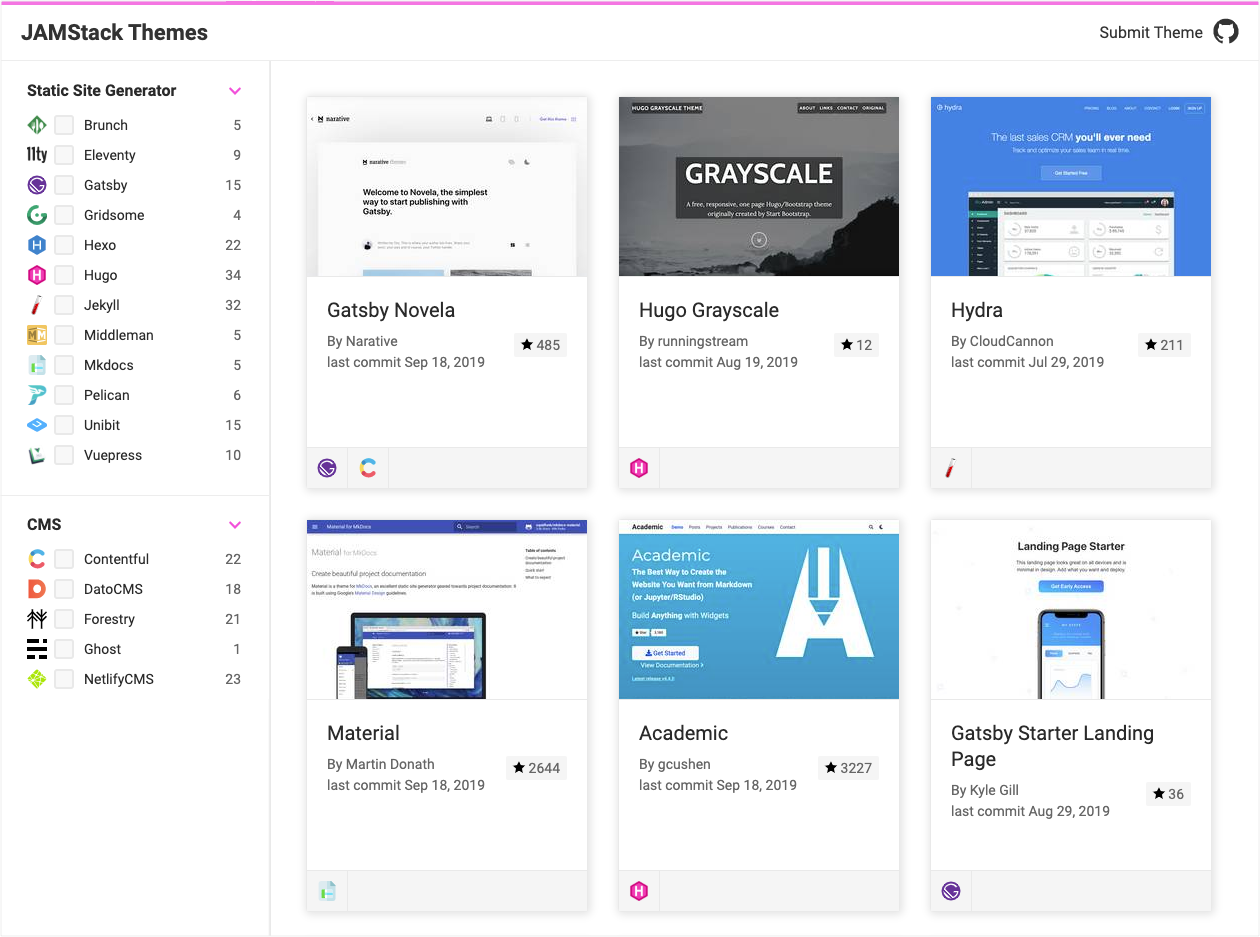
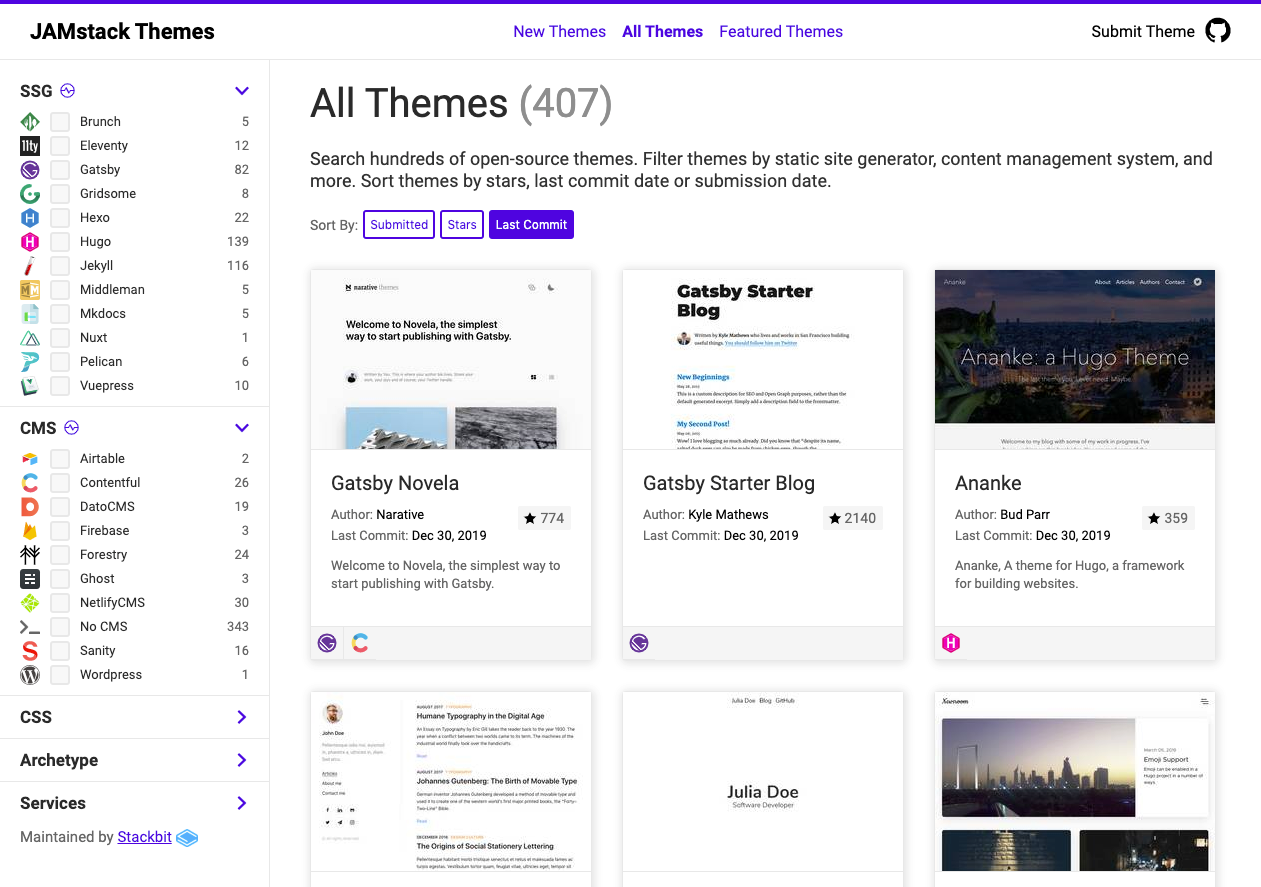
updating seo related stuff

diff --git a/themes/jamstackthemes/layouts/index.html b/themes/jamstackthemes/layouts/index.html
@@ -1,17 +1,13 @@
-{{ define "title" }}JAMstack Themes{{ end}}
+{{ define "title" }}JAMstack Themes{{ end }}
 {{ define "header_css" }}{{ end }}
 {{ define "body_classes" }}page-home{{ end }}
 
 {{ define "meta_tags" }}
-<meta name="description" content="{{ .Site.Params.description }}" />
-<meta property="og:title" content="JAMstack Themes" />
-<meta property="og:type" content="website" />
-<meta property="og:url" content="https://www.jamstackthemes.dev" />
-<meta property="og:description" content="{{ .Site.Params.description }}" />
-<meta property="og:image" content="https://jamstackthemes.dev/images/jamstackthemes-screenshot.png">
-<meta name="twitter:card" content="summary" />
-<meta name="twitter:site" content="@stackbithq" />
-<meta name="twitter:creator" content="@stackbithq" />
+{{ $themes := (where .Site.RegularPages "Type" "theme") }}
+{{ $themes := (where $themes ".Params.draft" "!=" true) }}
+{{ $themeCount := len $themes}}
+<meta name="description" content="The most popular list of themes and starters for JAMstack sites. Over {{ $themeCount }} free static site generator themes for Hugo, Gatsby, Jekyll, Gridsome & more." />
+<link rel="canonical" href="https://jamstackthemes.dev" />
 {{ end }}
 
 {{ define "main" }}
@@ -23,12 +19,11 @@
  
   <div class="intro">
     <h1>New Themes</h1>
-    <!-- <span class="count">(<span class="count-number">{{ $themeCount }}</span>)</span> -->
   </div>
 
   <div>
-    <div class="blurb blurb-desktop"><p>A list of Themes and Starters for <a href="https://jamstack.org/" target="_blank" rel="noopener">JAMstack</a> sites. The largest gallery of up-to-date themes for static site generators.</p></div>
-    <div class="blurb blurb-mobile"><p>A list of Themes and Starters for <a href="https://jamstack.org/" target="_blank" rel="noopener">JAMstack</a> sites.</p></div>
+    <div class="blurb blurb-desktop"><p>A list of themes and starters for <a href="https://jamstack.org/" target="_blank" rel="noopener">JAMstack</a> sites. We're the largest gallery of user submitted, open source themes for static site generators 🦖. This site is maintained with <a href="https://github.com/stackbithq/jamstackthemes#contribution-guidelines">community contributions</a> and with the kind support of <a href="https://www.stackbit.com">stackbit.com.</a></p></div>
+    <div class="blurb blurb-mobile"><p>A list of themes and starters for <a href="https://jamstack.org/" target="_blank" rel="noopener">JAMstack</a> sites.</p></div>
   </div>
 
   <div id="grids-homepage" class="grids">

diff --git a/themes/jamstackthemes/layouts/themes/list.html b/themes/jamstackthemes/layouts/themes/list.html
@@ -1,17 +1,14 @@
-{{ define "title" }}JAMstack Themes{{ end}}
+{{ define "title" }}
+  {{ $themes := (where .Site.RegularPages "Type" "theme") }}
+  {{ $themes := (where $themes ".Params.draft" "!=" true) }}
+  {{ $themeCount := len $themes}}
+All Themes ({{ $themeCount }})
+{{ end }}
+
 {{ define "header_css" }}{{ end }}
 {{ define "body_classes" }}page-home{{ end }}
 
 {{ define "meta_tags" }}
-<meta name="description" content="{{ .Site.Params.description }}" />
-<meta property="og:title" content="JAMstack Themes" />
-<meta property="og:type" content="website" />
-<meta property="og:url" content="https://www.jamstackthemes.dev" />
-<meta property="og:description" content="{{ .Site.Params.description }}" />
-<meta property="og:image" content="https://jamstackthemes.dev/images/jamstackthemes-screenshot.png">
-<meta name="twitter:card" content="summary" />
-<meta name="twitter:site" content="@stackbithq" />
-<meta name="twitter:creator" content="@stackbithq" />
 {{ end }}
 
 {{ define "main" }}
@@ -20,9 +17,6 @@
 {{ $themeCount := len $themes}}
 
 <div class="sidebar">
-  <!-- <div class="blurb blurb-desktop">
-    <p>A list of Themes and Starters for <a href="https://jamstack.org/" target="_blank" rel="noopener">JAMstack</a> sites.</p>
-  </div> -->
   {{ partial "filters.html" . }}
   {{ partial "stackbit.html" . }}
 </div>
@@ -35,9 +29,12 @@
 
   <div>
     <div class="blurb blurb-desktop">
-      <p>Search hundreds of open-source themes. Filter themes by static site generator, content management system, and more. Sort themes by stars, last commit date or submission date.</p>
+      <p>Search hundreds of open-source JAMstack themes and find the perfect starter theme or boilerplate for your next project. Filter themes by static site generator, headless CMS and more. Sort themes by stars, last commit date or submission date.</p>
     </div>
-    <div class="blurb blurb-mobile"><p>A list of Themes and Starters for <a href="https://jamstack.org/" target="_blank" rel="noopener">JAMstack</a> sites.</p></div>
+    <div class="blurb blurb-mobile">
+      <p>Search hundreds of open-source JAMstack themes!</p>
+    </div>  
+      
   </div>
 
   {{ partial "sort-buttons.html" . }}

diff --git a/themes/jamstackthemes/layouts/featured/list.html b/themes/jamstackthemes/layouts/featured/list.html
@@ -1,3 +1,4 @@
+{{ define "title" }}Featured Themes{{ end }}
 {{ define "header_css" }}{{ end }}
 {{ define "body_classes" }}page-featured{{ end }}
 
@@ -10,12 +11,15 @@
 <div class="main">
  
   <div class="intro">
-    <h1>Featured Themes <span class="count">(<span class="count-number">{{ $themeCount }}</span>)</span></h1>
+    <h1>Featured Themes</h1>
   </div>
 
   <div>
-    <div class="blurb blurb-desktop"><p>Featured Themes and Starters for <a href="https://jamstack.org/" target="_blank" rel="noopener">JAMstack</a> sites. The largest gallery of up-to-date themes for static site generators.</p></div>
-    <div class="blurb blurb-mobile"><p>Featured Themes and Starters for <a href="https://jamstack.org/" target="_blank" rel="noopener">JAMstack</a> sites.</p></div>
+    <div class="blurb blurb-desktop">
+      <p>A smaller, curated list of themes we think are pretty darn great 🔥. Technical quality, highlighting best practices for a particular SSG, innovative features, ease of configuration, UX and visual design are all factors.</p></div>
+    <div class="blurb blurb-mobile">
+      <p>A smaller, curated list of themes we think are pretty darn great 🔥.</p>
+    </div>
   </div>
 
   <div id="grids-homepage" class="grids">

diff --git a/themes/jamstackthemes/layouts/partials/header.html b/themes/jamstackthemes/layouts/partials/header.html
@@ -3,15 +3,15 @@
 
 <div class="header">
   <div class="header-left">
-    <h1><a href="/">JAMstack Themes</a></h1>
+    <h1><a href="/" title="JAMstack Themes">JAMstack Themes</a></h1>
   </div>
 
   {{ partial "main-menu.html" . }}
   
   <div class="submit">
-    <a class="submit-button submit-button-mobile" href="https://github.com/stackbithq/jamstackthemes#submit-a-theme">Submit</a>
-    <a class="submit-button submit-button-desktop" href="https://github.com/stackbithq/jamstackthemes#submit-a-theme">Submit Theme</a>
-    <a class="github" href="https://github.com/stackbithq/jamstackthemes">
+    <a class="submit-button submit-button-mobile" href="https://github.com/stackbithq/jamstackthemes#submit-a-theme" rel="nofollow">Submit</a>
+    <a class="submit-button submit-button-desktop" href="https://github.com/stackbithq/jamstackthemes#submit-a-theme" rel="nofollow">Submit Theme</a>
+    <a class="github" href="https://github.com/stackbithq/jamstackthemes" rel="nofollow">
       <img width="26" height="26" alt="Github Repo" src="{{ "images/icons/github.svg" | relURL }}"/>
     </a>
   </div>

diff --git a/themes/jamstackthemes/layouts/_default/baseof.html b/themes/jamstackthemes/layouts/_default/baseof.html
@@ -7,8 +7,17 @@
   <title>{{ block "title" . }}{{ .Title }} - {{ .Site.Title }}{{ end }}</title>
   <meta name="viewport" content="width=device-width, initial-scale=1">
 
+  <meta property="og:title" content="JAMstack Themes" />
+  <meta property="og:type" content="website" />
+  <meta property="og:url" content="https://www.jamstackthemes.dev" />
+  <meta property="og:description" content="The most complete list of themes and starters for JAMstack sites. Easily filter themes by static site generator, headless CMS, category and more.">
+  <meta property="og:image" content="https://jamstackthemes.dev/images/jamstackthemes-screenshot.png">
+  <meta name="twitter:card" content="summary" />
+  <meta name="twitter:site" content="@stackbithq" />
+  <meta name="twitter:creator" content="@stackbithq" />
+
   {{ block "meta_tags" . }}{{end}}
-  
+
   {{ if .Site.IsServer }}
   {{ $style := resources.Get "scss/style.scss" | resources.ExecuteAsTemplate "style.scss" . | toCSS (dict "targetPath" "css/style.css" "enableSourceMap" true) }}
   <link rel="stylesheet" href="{{ ($style).RelPermalink }}">

diff --git a/themes/jamstackthemes/layouts/_default/single.html b/themes/jamstackthemes/layouts/_default/single.html
@@ -26,8 +26,8 @@
           {{ end }}
 
           <div class="theme-detail-buttons">
-            <a class="button" href="{{ .Params.github }}" target="_blank" rel="noopener">Github</a>
-            <a class="button" href="{{ .Params.demo }}" target="_blank" rel="noopener">Live Demo</a>
+            <a class="button" href="{{ .Params.github }}" target="_blank" rel="nofollow noopener">Github</a>
+            <a class="button" href="{{ .Params.demo }}" target="_blank" rel="nofollow noopener">Live Demo</a>
           </div>
 
           <div class="theme-detail-tags">

diff --git a/themes/jamstackthemes/assets/scss/_blurb.scss b/themes/jamstackthemes/assets/scss/_blurb.scss
@@ -9,6 +9,8 @@
     display: block;
     padding: 0;
     margin-bottom: 10px;
+    font-size: 16px;
+    line-height: 20px;
     @include breakpoint('small') {
       display: none;
     }
@@ -16,13 +18,18 @@
   &.blurb-desktop {
     display: none;
     font-size: 18px;
-    line-height: 22px;
+    line-height: 24px;
     margin-bottom: 15px;
+    width: 75%;
     @include breakpoint('small') {
       display: block;
     }
   }
   a {
     color: $primary;
+    text-decoration: none;
+    &:hover {
+      text-decoration: underline;
+    }
   }
 }

diff --git a/themes/jamstackthemes/layouts/partials/footer.html b/themes/jamstackthemes/layouts/partials/footer.html
@@ -4,7 +4,7 @@
     <h3>JAMstack Themes</h3>
     <ul>
     <li>
-      <a href="https://github.com/stackbithq/jamstackthemes#submit-a-theme">Submit a theme</a>
+      <a href="https://github.com/stackbithq/jamstackthemes#submit-a-theme" rel="nofollow">Submit a theme</a>
     </li>
     <li>
       <a href="{{ "/index.json" | relURL }}">Themes JSON</a>

diff --git a/themes/jamstackthemes/assets/js/filter.js b/themes/jamstackthemes/assets/js/filter.js
@@ -10,6 +10,9 @@ const mixer = mixitup('#grids-homepage', {
   selectors: {
     target: '.grid'
   },
+  load: {
+    sort: 'last-commit:desc'
+  },
   callbacks: {
     onMixStart: function(state, futureState) {
       let total = futureState.totalShow;

diff --git a/themes/jamstackthemes/assets/scss/_sort.scss b/themes/jamstackthemes/assets/scss/_sort.scss
@@ -7,8 +7,12 @@
     margin-top: 15px;
   }
   .sort-by {
+    display: none;
     margin-right: 5px;
     color: #666;
+    @include breakpoint('small') {
+      margin-bottom: 0;
+    }
   }
   button {
     padding: 5px;

diff --git a/content/css/scss/_index.md b/content/css/scss/_index.md
@@ -1,0 +1,4 @@
+---
+title: "SCSS"
+icon: images/icons/scss.svg
+---
